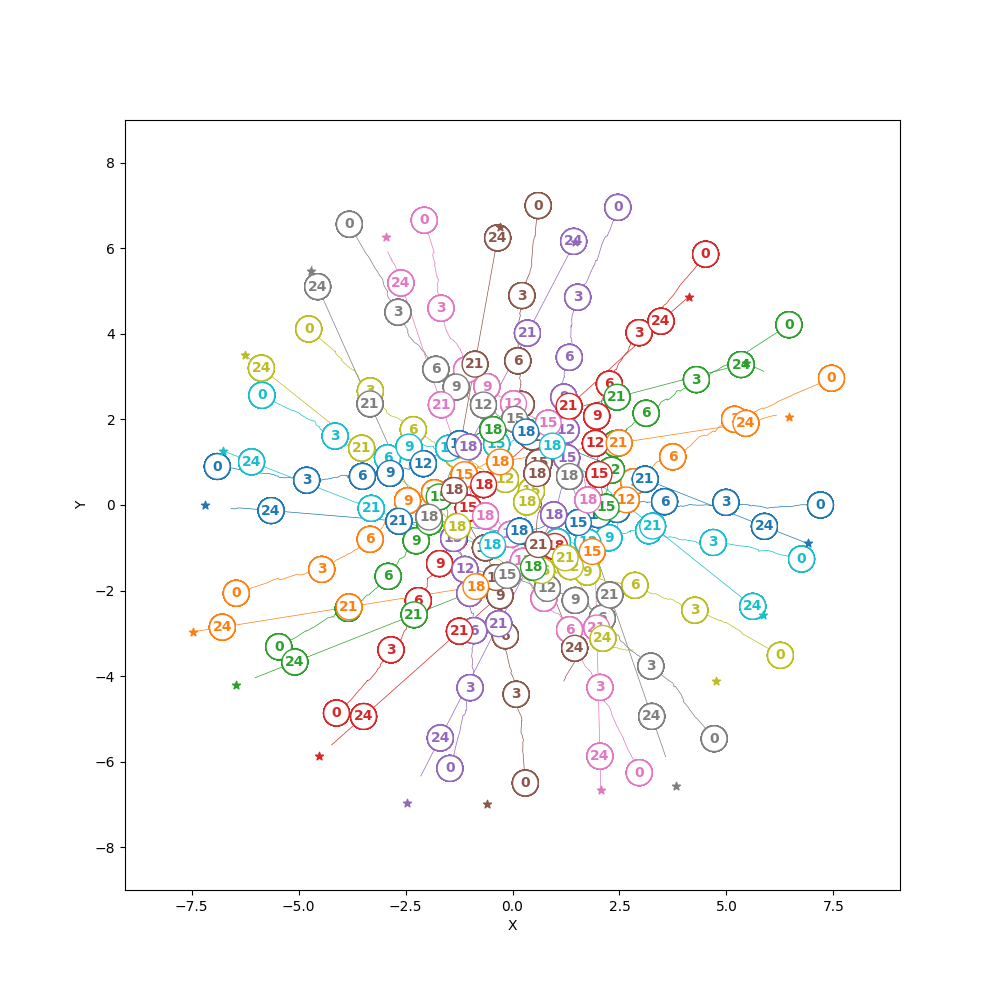
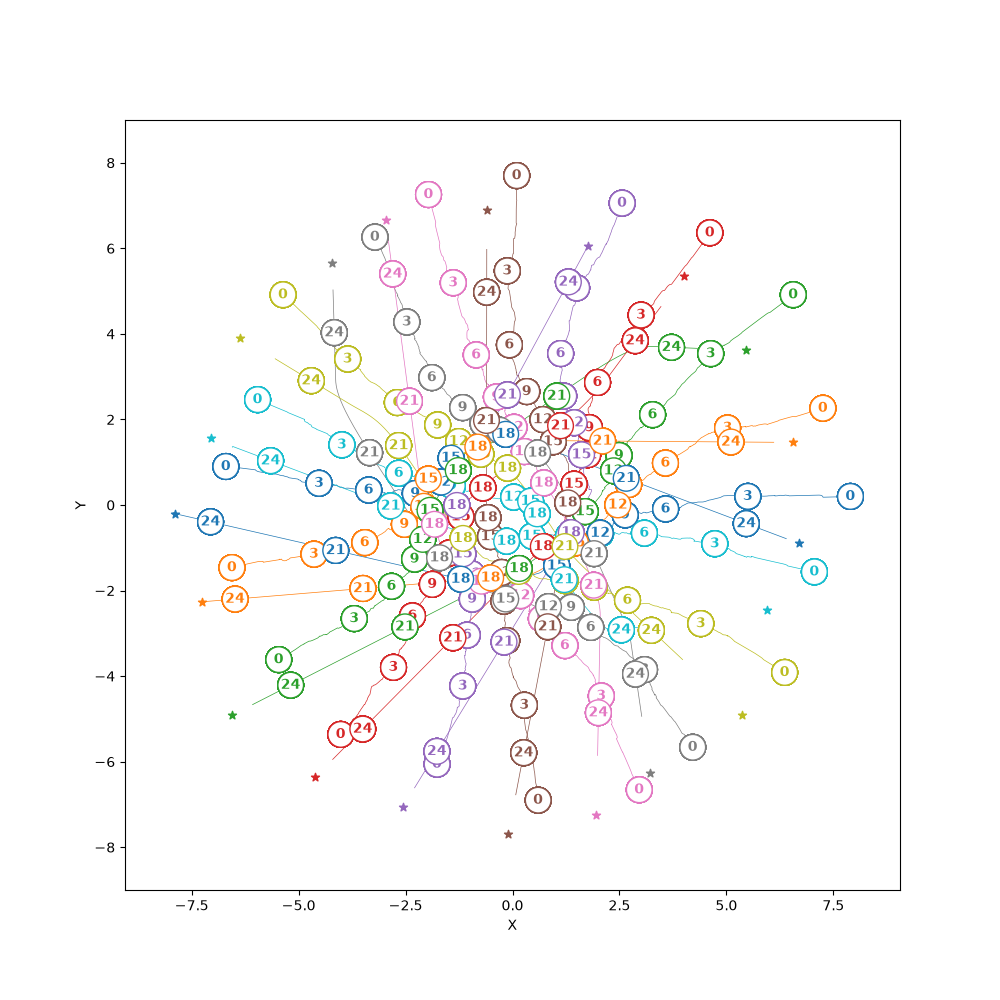
Add humans visibility

diff --git a/jorca/orca.py b/jorca/orca.py
@@ -29,6 +29,17 @@ def del_idx_from_arr(arr:jnp.ndarray, idx:int) -> jnp.ndarray:
             arr[1:])
 
 @jit
+def remove_element(arr:jnp.ndarray, idx:int) -> jnp.ndarray:
+    """
+    Rimuove a single element from a 1D array
+    """
+    N = arr.shape[0]
+    idx_norm = idx % N 
+    out_indices = jnp.arange(N - 1)
+    gather_indices = jnp.where(out_indices < idx_norm, out_indices, out_indices + 1)
+    return arr[gather_indices]
+
+@jit
 def linearProgram1(
     orca_lines:jnp.ndarray,
     idx:int,
@@ -339,9 +350,9 @@ def compute_single_human_orca_line(human_state:jnp.ndarray, other_human_state:jn
     return orca_line
 
 @jit
-def compute_single_human_neighbors(human_state:jnp.ndarray, other_humans_state:jnp.ndarray, parameters:jnp.ndarray, other_humans_parameters:jnp.ndarray) -> jnp.ndarray:
+def compute_single_human_neighbors(human_state:jnp.ndarray, other_humans_visibility:jnp.ndarray, other_humans_state:jnp.ndarray, parameters:jnp.ndarray, other_humans_parameters:jnp.ndarray) -> jnp.ndarray:
     """
-    This function computes the neighbors of a single human given a max distance and a max number of neighbors.
+    This function computes the neighbors of a single human given a max distance, a max number of neighbors, and the visibility vector.
     """
     neighbor_dist = parameters[3]
     squared_neighbor_dist = neighbor_dist**2
@@ -353,7 +364,7 @@ def compute_single_human_neighbors(human_state:jnp.ndarray, other_humans_state:j
     @jit
     def _set_neighbor(idx, sorted_idx, squared_distances, squared_neighbor_dist, max_neighbors, humans_state, humans_parameters):
         neighbor, neighbor_parameters = lax.cond(
-            (squared_distances[sorted_idx] < squared_neighbor_dist) & (idx < max_neighbors),
+            (squared_distances[sorted_idx] < squared_neighbor_dist) & (idx < max_neighbors) & (other_humans_visibility[sorted_idx]),
             lambda _: (humans_state[sorted_idx], humans_parameters[sorted_idx]),
             lambda _: (jnp.array([jnp.nan, jnp.nan, jnp.nan, jnp.nan]), jnp.array([jnp.nan, jnp.nan, jnp.nan, jnp.nan, jnp.nan, jnp.nan])),
             None)
@@ -379,7 +390,7 @@ def compute_single_human_neighbors(human_state:jnp.ndarray, other_humans_state:j
     return neighbors, neighbor_parameters
 
 @jit
-def single_update(idx:int, humans_state:jnp.ndarray, human_goal:jnp.ndarray, parameters:jnp.ndarray, obstacles:jnp.ndarray, dt:float) -> jnp.ndarray:
+def single_update(idx:int, humans_state:jnp.ndarray, humans_visibility:jnp.ndarray, human_goal:jnp.ndarray, parameters:jnp.ndarray, obstacles:jnp.ndarray, dt:float) -> jnp.ndarray:
     """
     This functions makes a step in time (of length dt) for a single human using the Optimal Reciprocal Collision Avoidance (ORCA) with 
     global force guidance for torque and sliding component on the repulsive forces.
@@ -387,6 +398,7 @@ def single_update(idx:int, humans_state:jnp.ndarray, human_goal:jnp.ndarray, par
     args:
     - idx: human index in the state, goal and parameter vectors
     - humans_state: shape is (n_humans, 4) in the form is (px, py, vx, vy)
+    - humans_visibility: shape is (n_humans) indicating if human i can be seen (thus repulsed)
     - humans_goal: shape is (2,) in the form (gx, gy)
     - parameters: shape is (n_humans, ..) in the form (radius, time_horizon, v_max, ..., safety_space)
     - obstacles: shape is (n_obstacles, n_edges, 2, 2) where each obs contains one of its edges (min. 3 edges) and each edge includes its two vertices (p1, p2) composed by two coordinates (x, y)
@@ -396,7 +408,13 @@ def single_update(idx:int, humans_state:jnp.ndarray, human_goal:jnp.ndarray, par
     - updated_human_state: shape is (4,) in the form (px, py, vx, vy)
     """
     ### Compute neighbors
-    neighbors, neighbors_parameters = compute_single_human_neighbors(humans_state[idx], del_idx_from_arr(humans_state, idx), parameters[idx], del_idx_from_arr(parameters, idx))
+    neighbors, neighbors_parameters = compute_single_human_neighbors(
+        humans_state[idx], 
+        remove_element(humans_visibility, idx), 
+        del_idx_from_arr(humans_state, idx), 
+        parameters[idx], 
+        del_idx_from_arr(parameters, idx)
+    )
     ### Compute ORCA lines for Humans
     orca_lines = vmap(compute_single_human_orca_line, in_axes=(None, 0, None, 0, None))(
         humans_state[idx], 
@@ -428,13 +446,14 @@ def single_update(idx:int, humans_state:jnp.ndarray, human_goal:jnp.ndarray, par
     return updated_human_state
 
 @jit
-def step(humans_state:jnp.ndarray, humans_goal:jnp.ndarray, parameters:jnp.ndarray, obstacles:jnp.ndarray, dt:float) -> jnp.ndarray:
+def step(humans_state:jnp.ndarray, humans_visibility:jnp.ndarray, humans_goal:jnp.ndarray, parameters:jnp.ndarray, obstacles:jnp.ndarray, dt:float) -> jnp.ndarray:
     """
     This functions makes a step in time (of length dt) for the humans' state using the Optimal Reciprocal Collision Avoidance (ORCA) with 
     global force guidance for torque and sliding component on the repulsive forces.
 
     args:
     - humans_state: shape is (n_humans, 4) where each row is (px, py, vx, vy)
+    - humans_visibility: shape is (n_humans, n_humans) where each element (i,j) is a bool indicating if human i can see (and thus repulse) human j
     - humans_goal: shape is (n_humans, 2) where each row is (gx, gy)
     - parameters: shape is (n_humans, ..) where each row is (radius, time_horizon, v_max, ..., safety_space)
     - obstacles: shape is (n_obstacles, n_edges, 2, 2) where each obs contains one of its edges (min. 3 edges) and each edge includes its two vertices (p1, p2) composed by two coordinates (x, y)
@@ -443,9 +462,10 @@ def step(humans_state:jnp.ndarray, humans_goal:jnp.ndarray, parameters:jnp.ndarr
     output:
     - updated_humans_state: shape is (n_humans, 4) where each row is (px, py, vx, vy)
     """
-    updated_humans_state = vmap(single_update, in_axes=(0, None, 0, None, None, None))(
+    updated_humans_state = vmap(single_update, in_axes=(0, None, 0, 0, None, None, None))(
         jnp.arange(len(humans_state)),
-        humans_state, 
+        humans_state,
+        humans_visibility,
         humans_goal, 
         parameters, 
         obstacles, 

diff --git a/example1.py b/example1.py
@@ -21,6 +21,7 @@ save_gif = False
 
 # Initial conditions
 humans_state = np.zeros((n_humans, 4))
+humans_visibility = jnp.fill_diagonal(jnp.ones((n_humans,n_humans), dtype=jnp.bool), jnp.zeros((n_humans,), dtype=jnp.bool), inplace=False)
 humans_goal = np.zeros((n_humans, 2))
 angle_width = (2 * jnp.pi) / (n_humans)
 for i in range(n_humans):
@@ -40,7 +41,7 @@ humans_goal = jnp.array(humans_goal)
 static_obstacles = jnp.array([[[[1000.,1000.],[1000.,1000.]]]]) # dummy obstacles
 
 # Dummy step - Warm-up (we first compile the JIT functions to avoid counting compilation time later)
-_ = step(humans_state, humans_goal, humans_parameters, static_obstacles, dt)
+_ = step(humans_state, humans_visibility, humans_goal, humans_parameters, static_obstacles, dt)
 
 # Simulation 
 steps = int(end_time/dt)
@@ -50,7 +51,7 @@ start_time = time.time()
 all_states = np.empty((steps+1, n_humans, 4), np.float32)
 all_states[0] = humans_state
 for i in range(steps):
-    humans_state = step(humans_state, humans_goal, humans_parameters, static_obstacles, dt)
+    humans_state = step(humans_state, humans_visibility, humans_goal, humans_parameters, static_obstacles, dt)
     all_states[i+1] = humans_state
 end_time = time.time()
 print("Simulation done! Computation time: ", end_time - start_time)
